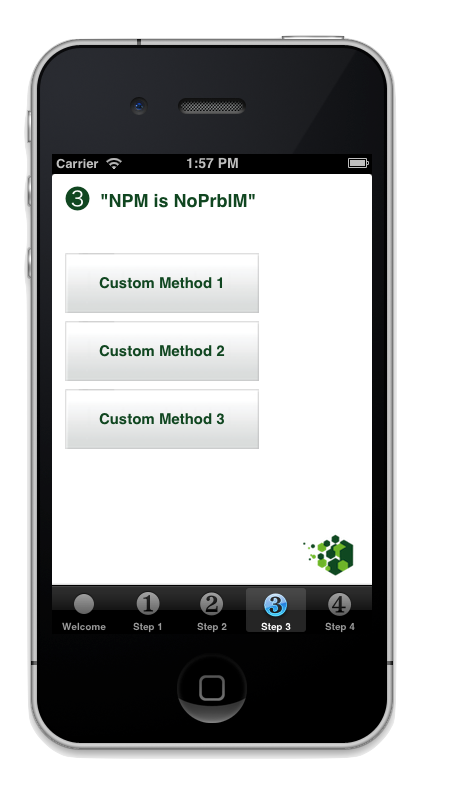
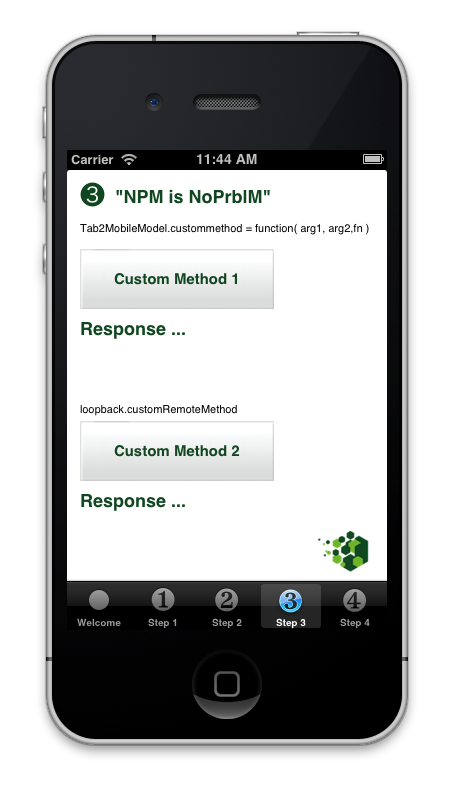
delgate only pushes default content if the datastore is empty, also a screen shot update.

Changed region(s): [[0.0308, 0.0303, 0.9251, 0.9697], [0.4009, 0.1212, 0.5859, 0.1515], [0.3084, 0.1212, 0.3392, 0.1515]]

diff --git a/loopback-ios-app/loopback-ios-multi-model/AppDelegate.m b/loopback-ios-app/loopback-ios-multi-model/AppDelegate.m
@@ -22,6 +22,39 @@ static LBRESTAdapter * _adapter = nil;
     return _adapter;
 }
 
+// initializeServerWithDataIfNeeded
++ (void) initializeServerWithData
+{
+    LBModelPrototype *ObjectPrototype = [ [AppDelegate adapter]  prototypeWithName:@"products"];
+    
+    //try and read from the endpoint if it comes back with empty set the push some default data to it.
+    
+    // Define the load error functional block
+    void (^loadErrorBlock)(NSError *) = ^(NSError *error) {
+        NSLog( @"initializeServerWithData : Error %@", error.description);
+    };//end selfFailblock
+    
+    // Define the load success block for the LBModelPrototype allWithSuccess message
+    void (^loadSuccessBlock)(NSArray *) = ^(NSArray *models) {
+        
+        if ( models.count <= 0 )
+        {
+            void (^saveNewErrorBlock)(NSError *) = ^(NSError *error) {
+                NSLog( @"initializeServerWithData: Error on Save %@", error.description);
+            };
+            void (^saveNewSuccessBlock)() = ^() { };
+            
+            //Persist the newly created Model to the LoopBack node server
+            [ [ObjectPrototype modelWithDictionary:@{ @"name": @"Product A", @"inventory" : @11 }]  saveWithSuccess:saveNewSuccessBlock failure:saveNewErrorBlock];
+            [ [ObjectPrototype modelWithDictionary:@{ @"name": @"Product B", @"inventory" : @22 }]  saveWithSuccess:saveNewSuccessBlock failure:saveNewErrorBlock];
+            [ [ObjectPrototype modelWithDictionary:@{ @"name": @"Product C", @"inventory" : @33 }]  saveWithSuccess:saveNewSuccessBlock failure:saveNewErrorBlock];
+        }//end if models.cout <= 0 
+    };//end selfSuccessBlock
+    
+    [ObjectPrototype allWithSuccess: loadSuccessBlock failure: loadErrorBlock];
+}
+
+
 - (BOOL)application:(UIApplication *)application didFinishLaunchingWithOptions:(NSDictionary *)launchOptions
 {
     // Override point for customization after application launch.

diff --git a/loopback-ios-app/loopback-ios-multi-model/FirstViewController.m b/loopback-ios-app/loopback-ios-multi-model/FirstViewController.m
@@ -85,7 +85,7 @@
     
     ///*
     //Get a local representation of the 'weapons' model type
-    LBModelPrototype *prototype = [  [AppDelegate adapter]  prototypeWithName:@"products"];
+    LBModelPrototype *prototype = [ [AppDelegate adapter] prototypeWithName:@"products"];
 
     //create new LBModel of type
     LBModel *model = [prototype modelWithDictionary:@{ @"name": @"New Product", @"inventory" : @99 }];

diff --git a/loopback-ios-app/loopback-ios-multi-model/AppDelegate.h b/loopback-ios-app/loopback-ios-multi-model/AppDelegate.h
@@ -14,5 +14,6 @@
 @property (strong, nonatomic) UIWindow *window;
 +(void)showGuideMessage : ( NSString *) message;
 + (LBRESTAdapter *) adapter;
++ (void) initializeServerWithData;
 @end
 
